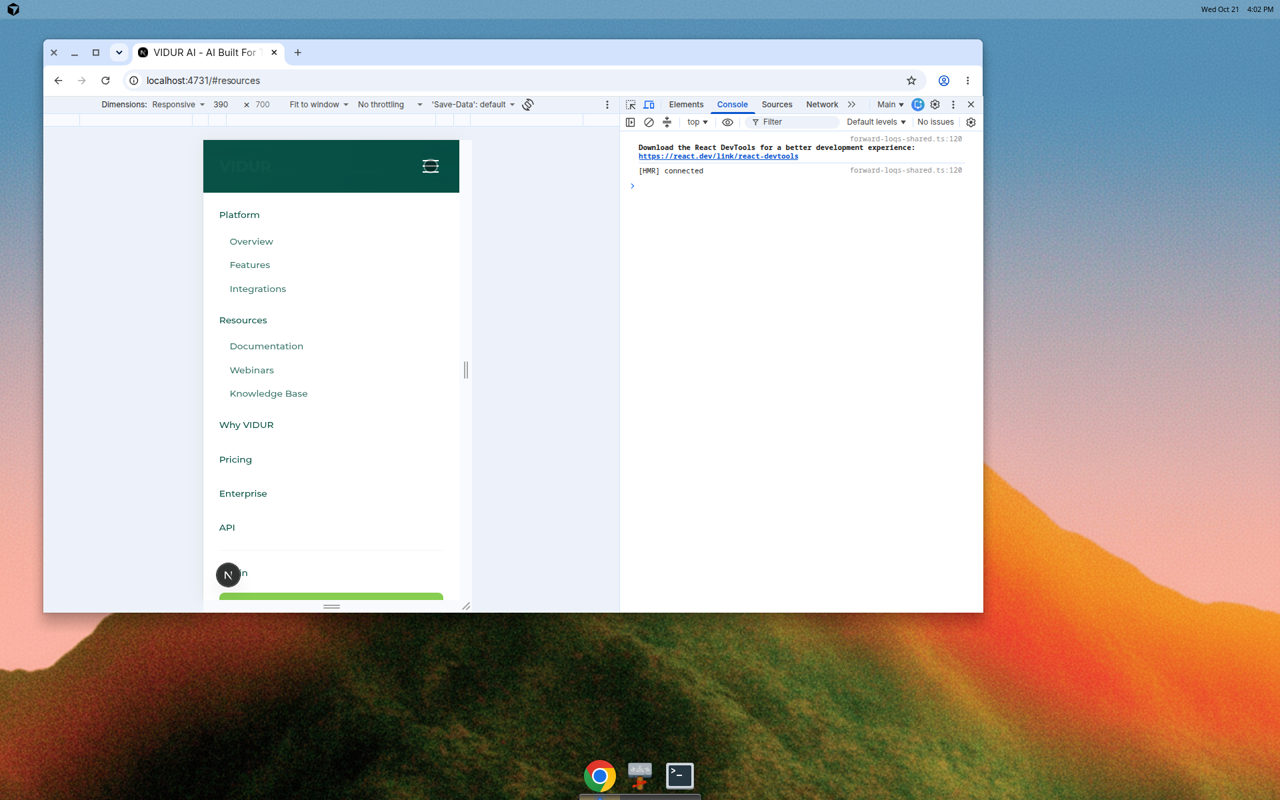
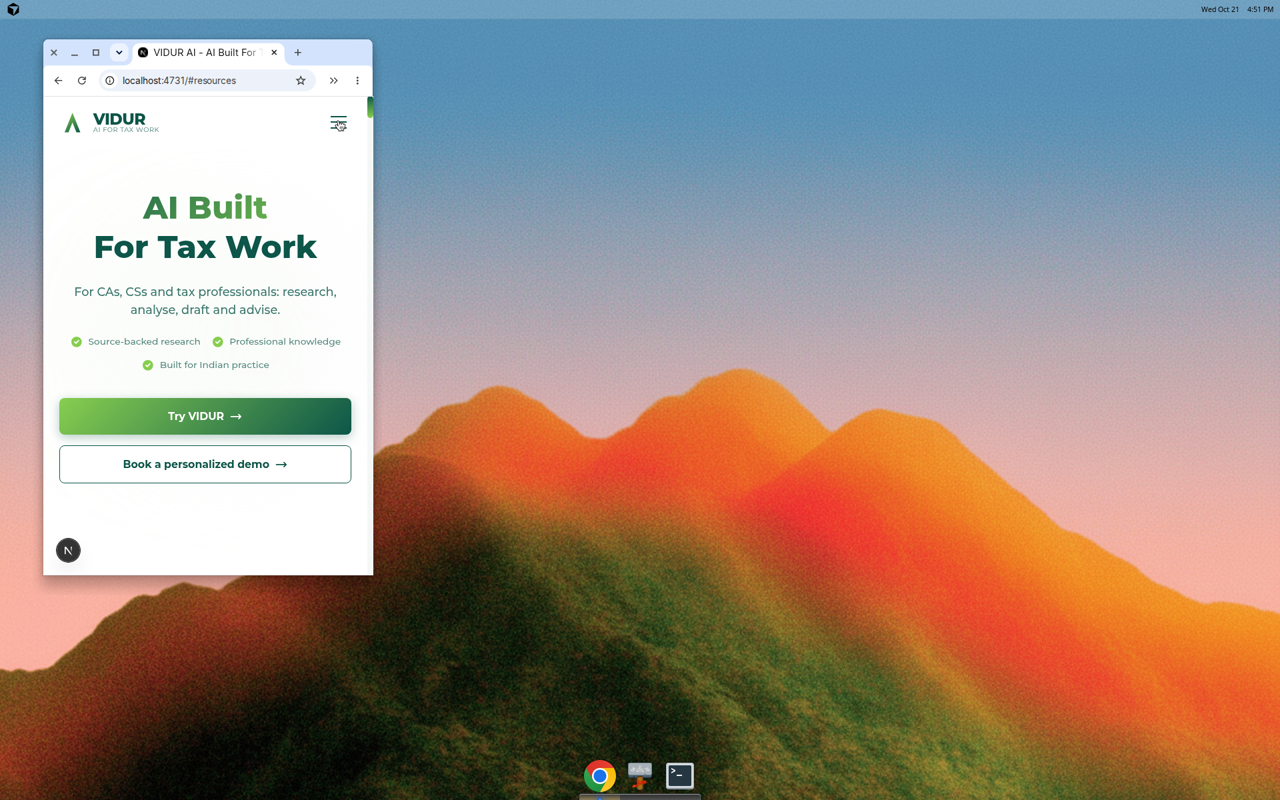
feat: change font from Montserrat to Inter
- Update layout to load Inter font from Google Fonts (400-900 weights)
- Update globals.css to use Inter as primary font
- Update Tailwind config to use Inter in font family
- Apply Inter throughout entire site for cleaner, modern look

diff --git a/app/layout.tsx b/app/layout.tsx
@@ -19,9 +19,9 @@ export default function RootLayout({ children }: LayoutProps<"/">) {
       <head>
         <link rel="preconnect" href="https://fonts.googleapis.com" />
         <link rel="preconnect" href="https://fonts.gstatic.com" crossOrigin="anonymous" />
-        <link href="https://fonts.googleapis.com/css2?family=Montserrat:wght@500;700;800&display=swap" rel="stylesheet" />
+        <link href="https://fonts.googleapis.com/css2?family=Inter:wght@400;500;600;700;800;900&display=swap" rel="stylesheet" />
       </head>
-      <body className="antialiased" style={{fontFamily: 'Montserrat, system-ui, sans-serif'}}>{children}</body>
+      <body className="antialiased" style={{fontFamily: 'Inter, system-ui, sans-serif'}}>{children}</body>
     </html>
   );
 }

diff --git a/tailwind.config.ts b/tailwind.config.ts
@@ -16,7 +16,7 @@ const config: Config = {
         'soft-neutral': '#F4F7F6',
       },
       fontFamily: {
-        sans: ['Montserrat', 'system-ui', 'sans-serif'],
+        sans: ['Inter', 'system-ui', 'sans-serif'],
       },
       fontSize: {
         'hero': ['60px', { lineHeight: '1.1', fontWeight: '800' }],

diff --git a/app/globals.css b/app/globals.css
@@ -20,7 +20,7 @@ html {
 }
 
 body {
-  font-family: 'Montserrat', system-ui, sans-serif;
+  font-family: 'Inter', system-ui, sans-serif;
   -webkit-font-smoothing: antialiased;
   -moz-osx-font-smoothing: grayscale;
 }
